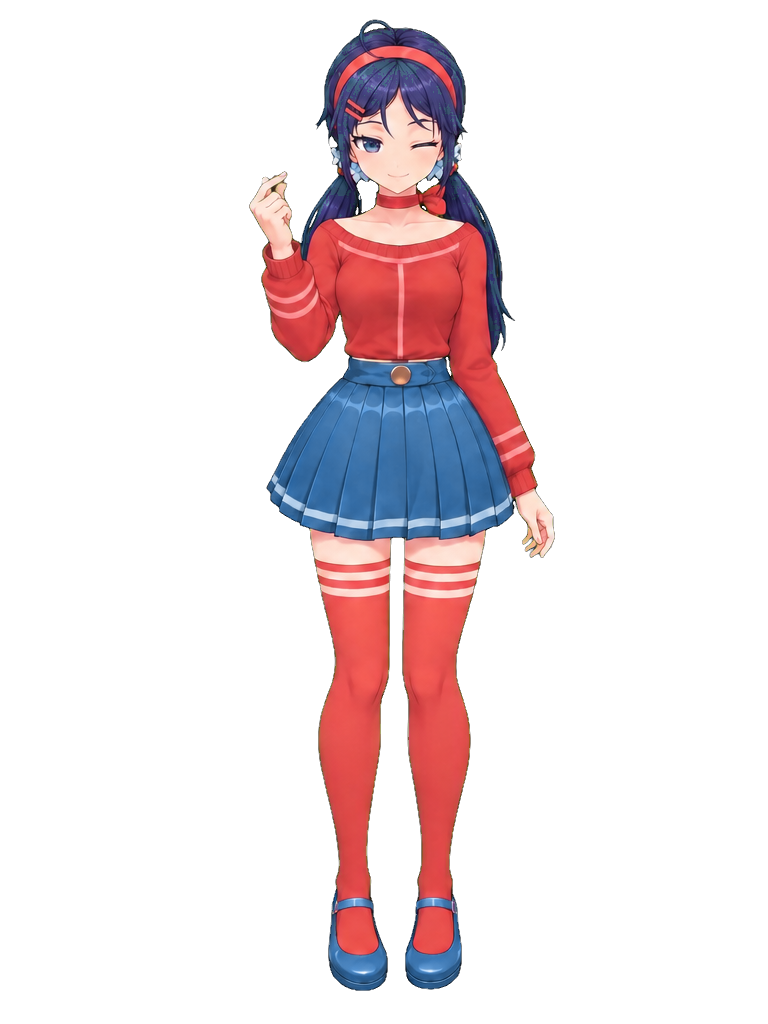
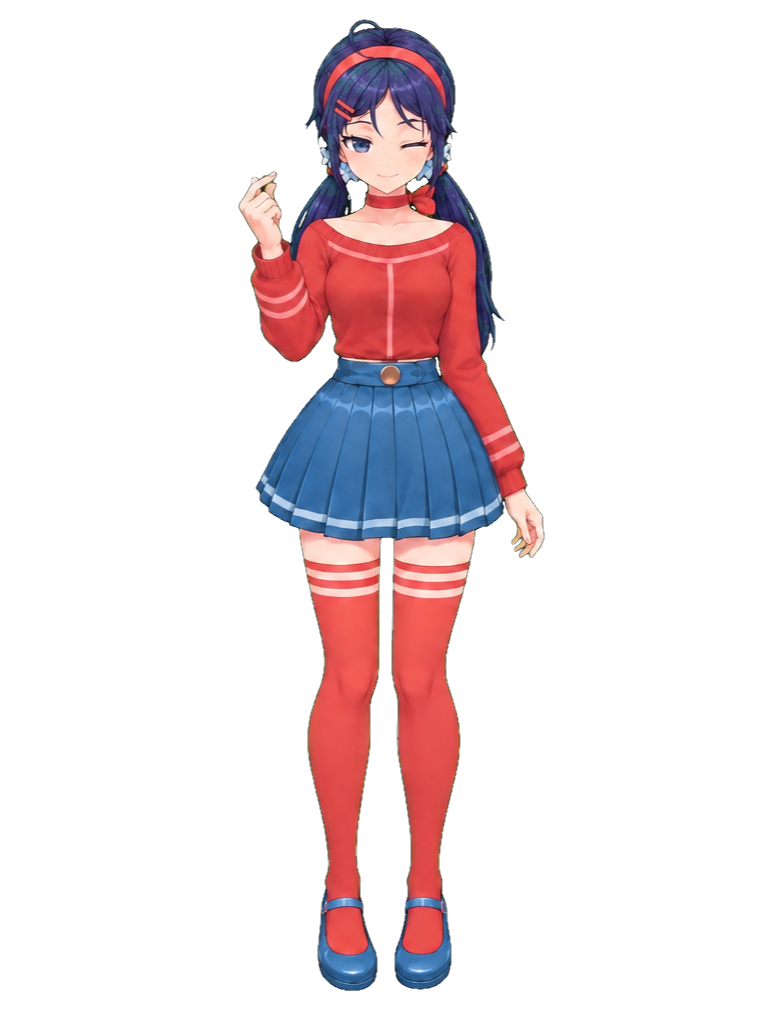
51-mita-craft: щелчок — выравнивание по голове и ногам (без шатания)
Claude-Session: https://claude.ai/code/session_012PNwYZXdw6QfqQCMnTcc5j

Changed region(s): [[0.3125, 0.0, 0.7188, 0.9688]]

diff --git a/projects/51-mita-craft/snap_preview.py b/projects/51-mita-craft/snap_preview.py
@@ -14,16 +14,43 @@ import anim
 AL = Path(__file__).resolve().parent / 'input' / 'mita' / 'frames_aligned'
 
 
+def _run_mid(row, x0):
+    xs = np.nonzero(row)[0]
+    if len(xs) == 0:
+        return None
+    runs = np.split(xs, np.nonzero(np.diff(xs) > 3)[0] + 1)
+    r = min(runs, key=lambda r: 0 if r[0] <= x0 <= r[-1] else min(abs(r[0] - x0), abs(r[-1] - x0)))
+    return (r[0] + r[-1]) / 2
+
+
+def body_x(a):
+    """Центр тела: голова (5–15 % высоты, отрезок у центра — без разлетающихся волос), талия (38–46 %), обе ноги (низ 12 %)."""
+    al = a[..., 3] > 60
+    ys = np.nonzero(al.any(1))[0]
+    y0, y1 = ys.min(), ys.max()
+    h = y1 - y0
+    def band(f0, f1, x0):
+        v = [_run_mid(al[y], x0) for y in range(int(y0 + f0 * h), int(y0 + f1 * h))]
+        v = [x for x in v if x is not None]
+        return float(np.median(v))
+    cx = float(np.median(np.nonzero(al)[1]))
+    head = band(0.05, 0.15, cx)
+    waist = band(0.38, 0.46, head)
+    lx = np.nonzero(al[int(y1 - 0.12 * h):y1 + 1].any(0))[0]
+    legs = (lx.min() + lx.max()) / 2
+    return 0.5 * head + 0.5 * legs
+
+
 def align_all(names):
     AL.mkdir(exist_ok=True)
-    for n in names:
+    order = list(names)
+    xs = {n: body_x(anim.pose(n)) for n in order}
+    for i, n in enumerate(order):
+        x = xs[n] if n != 'astro_sc3' else xs['astro_sc2']   # в последнем кадре она наклоняется к зрителю — наклон оставляем
         a = anim.pose(n)
-        ys, xs = np.nonzero(a[..., 3] > 60)
-        y0, y1 = ys.min(), ys.max()
-        leg = ys > y1 - 0.25 * (y1 - y0)
-        dx = 384 - np.median(xs[leg])
-        dy = 990 - y1
-        Image.fromarray(anim._translate(a, np.array([dx, dy], np.float32))).save(AL / f'{n}.png')
+        ys = np.nonzero(a[..., 3] > 60)[0]
+        Image.fromarray(anim._translate(a, np.array([384 - x, 990 - ys.max()], np.float32))).save(AL / f'{n}.png')
+
 
 HERE = Path(__file__).resolve().parent
 W, H, FPS = 540, 960, 60
